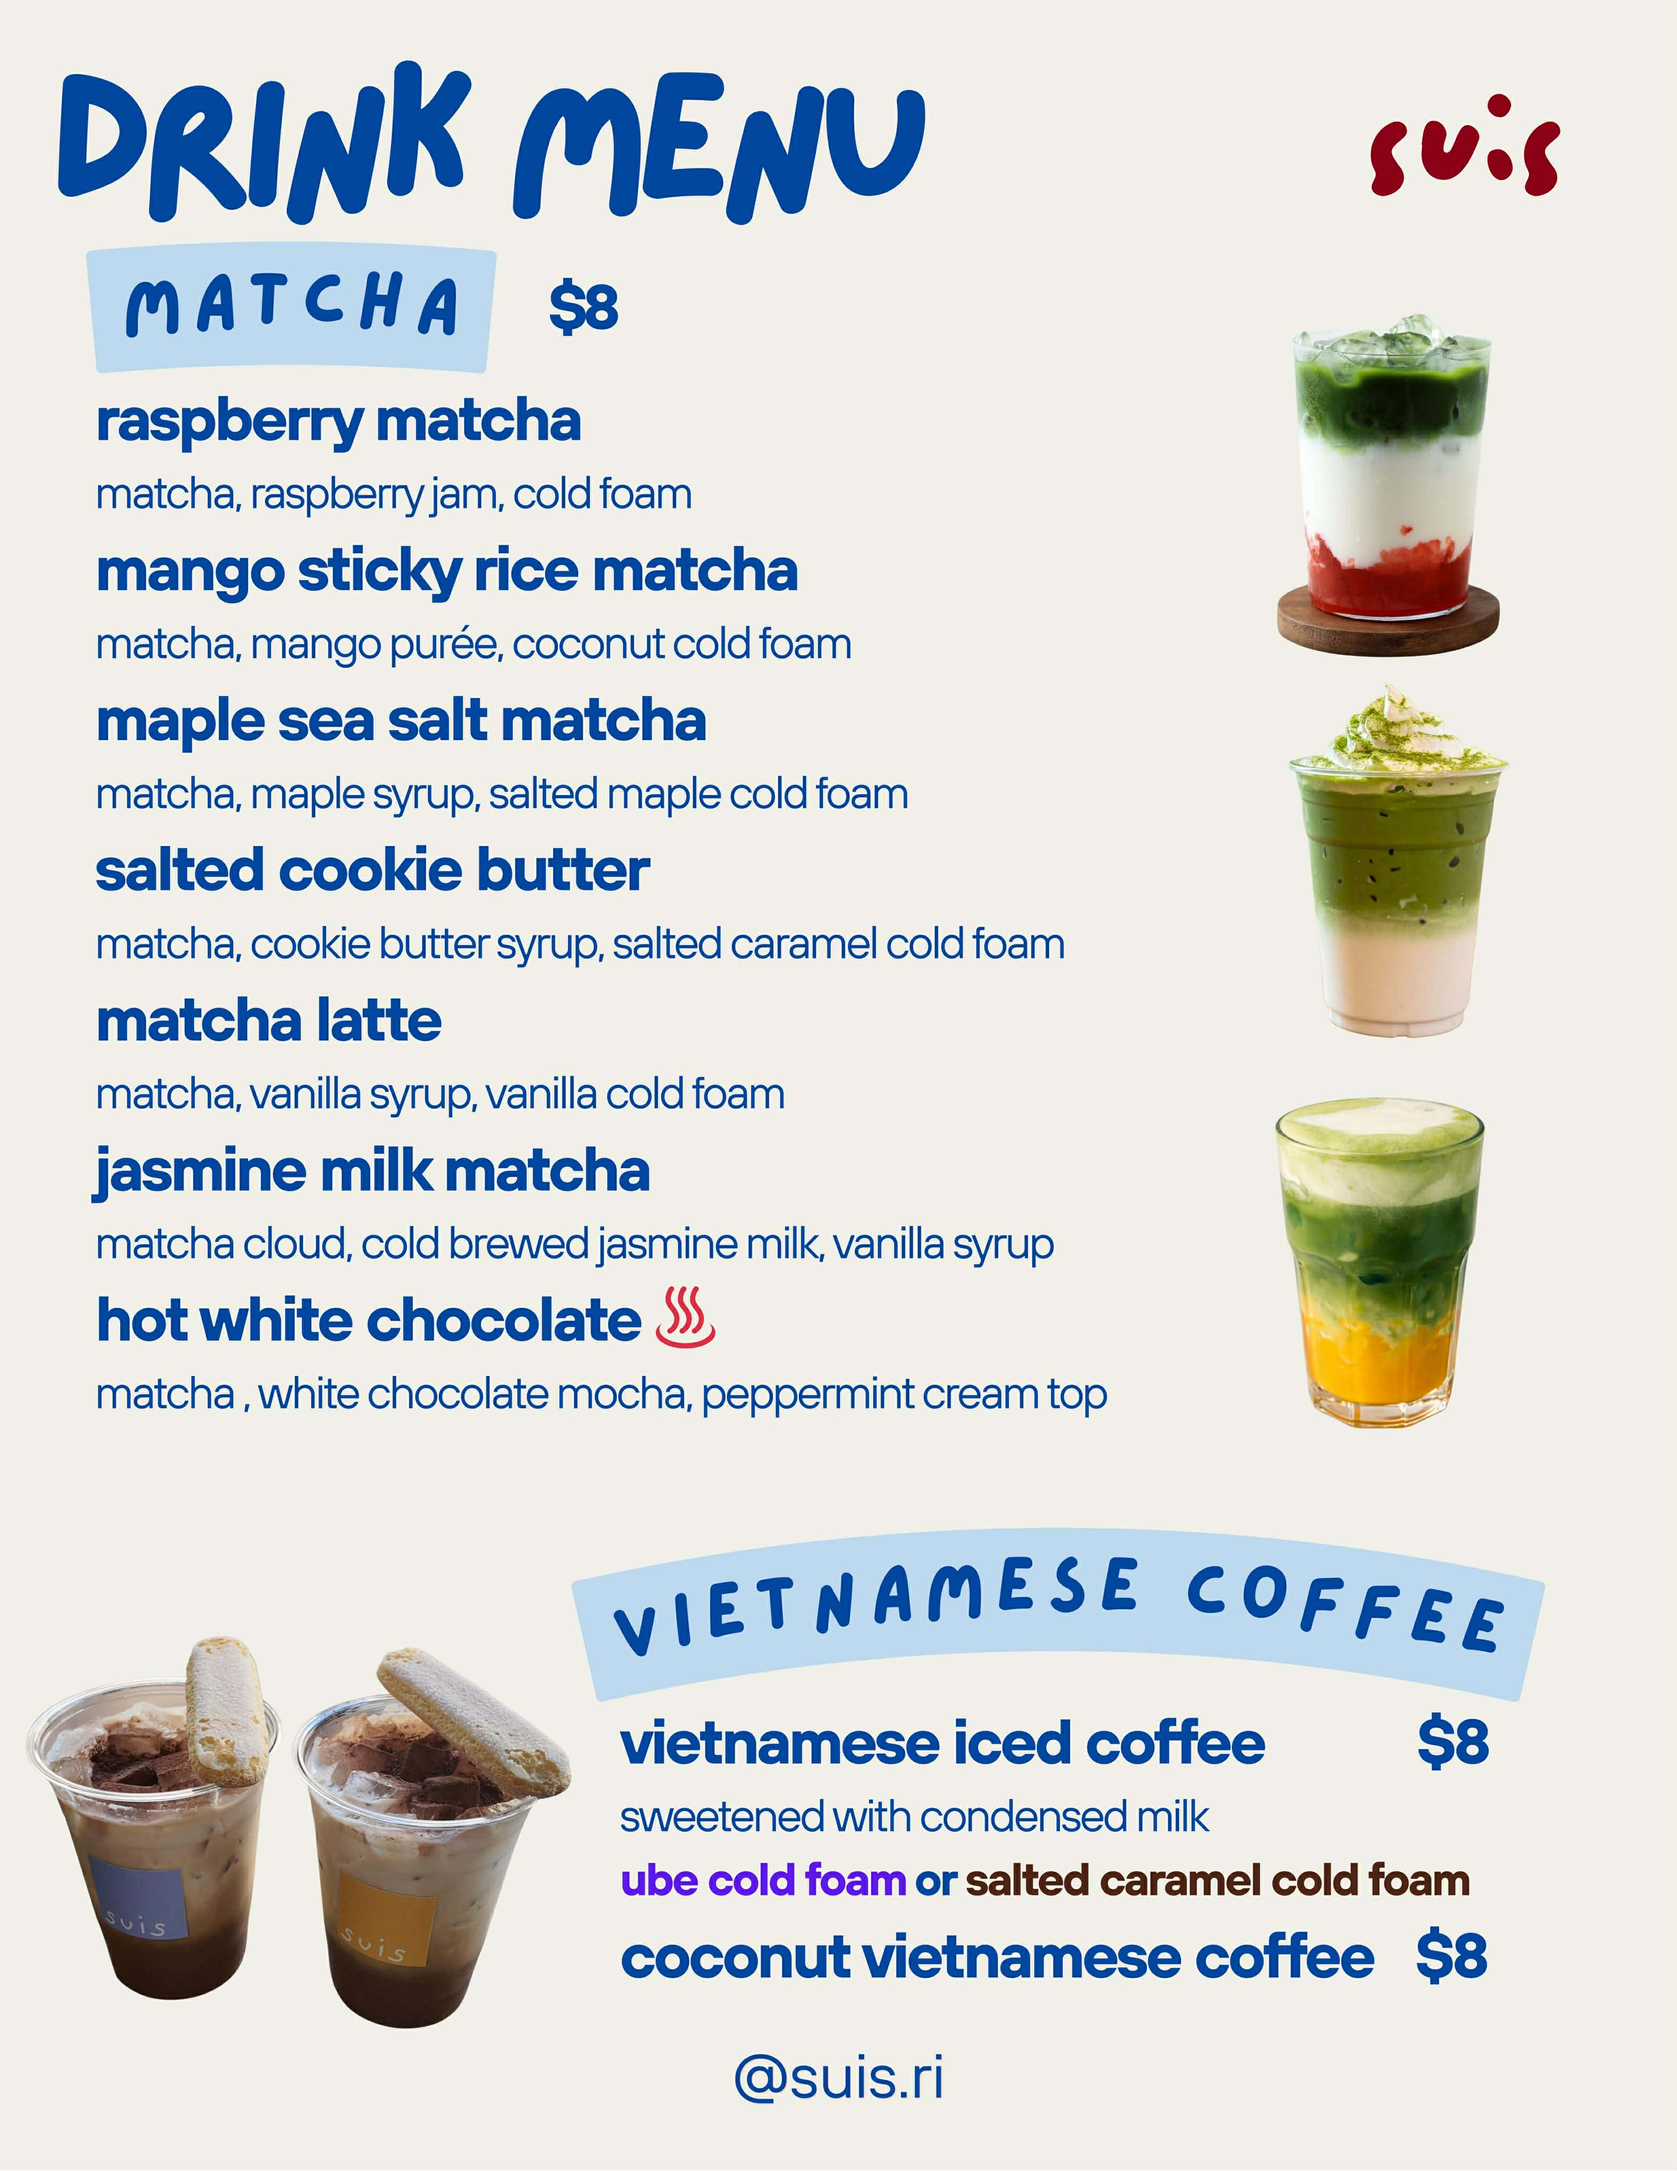
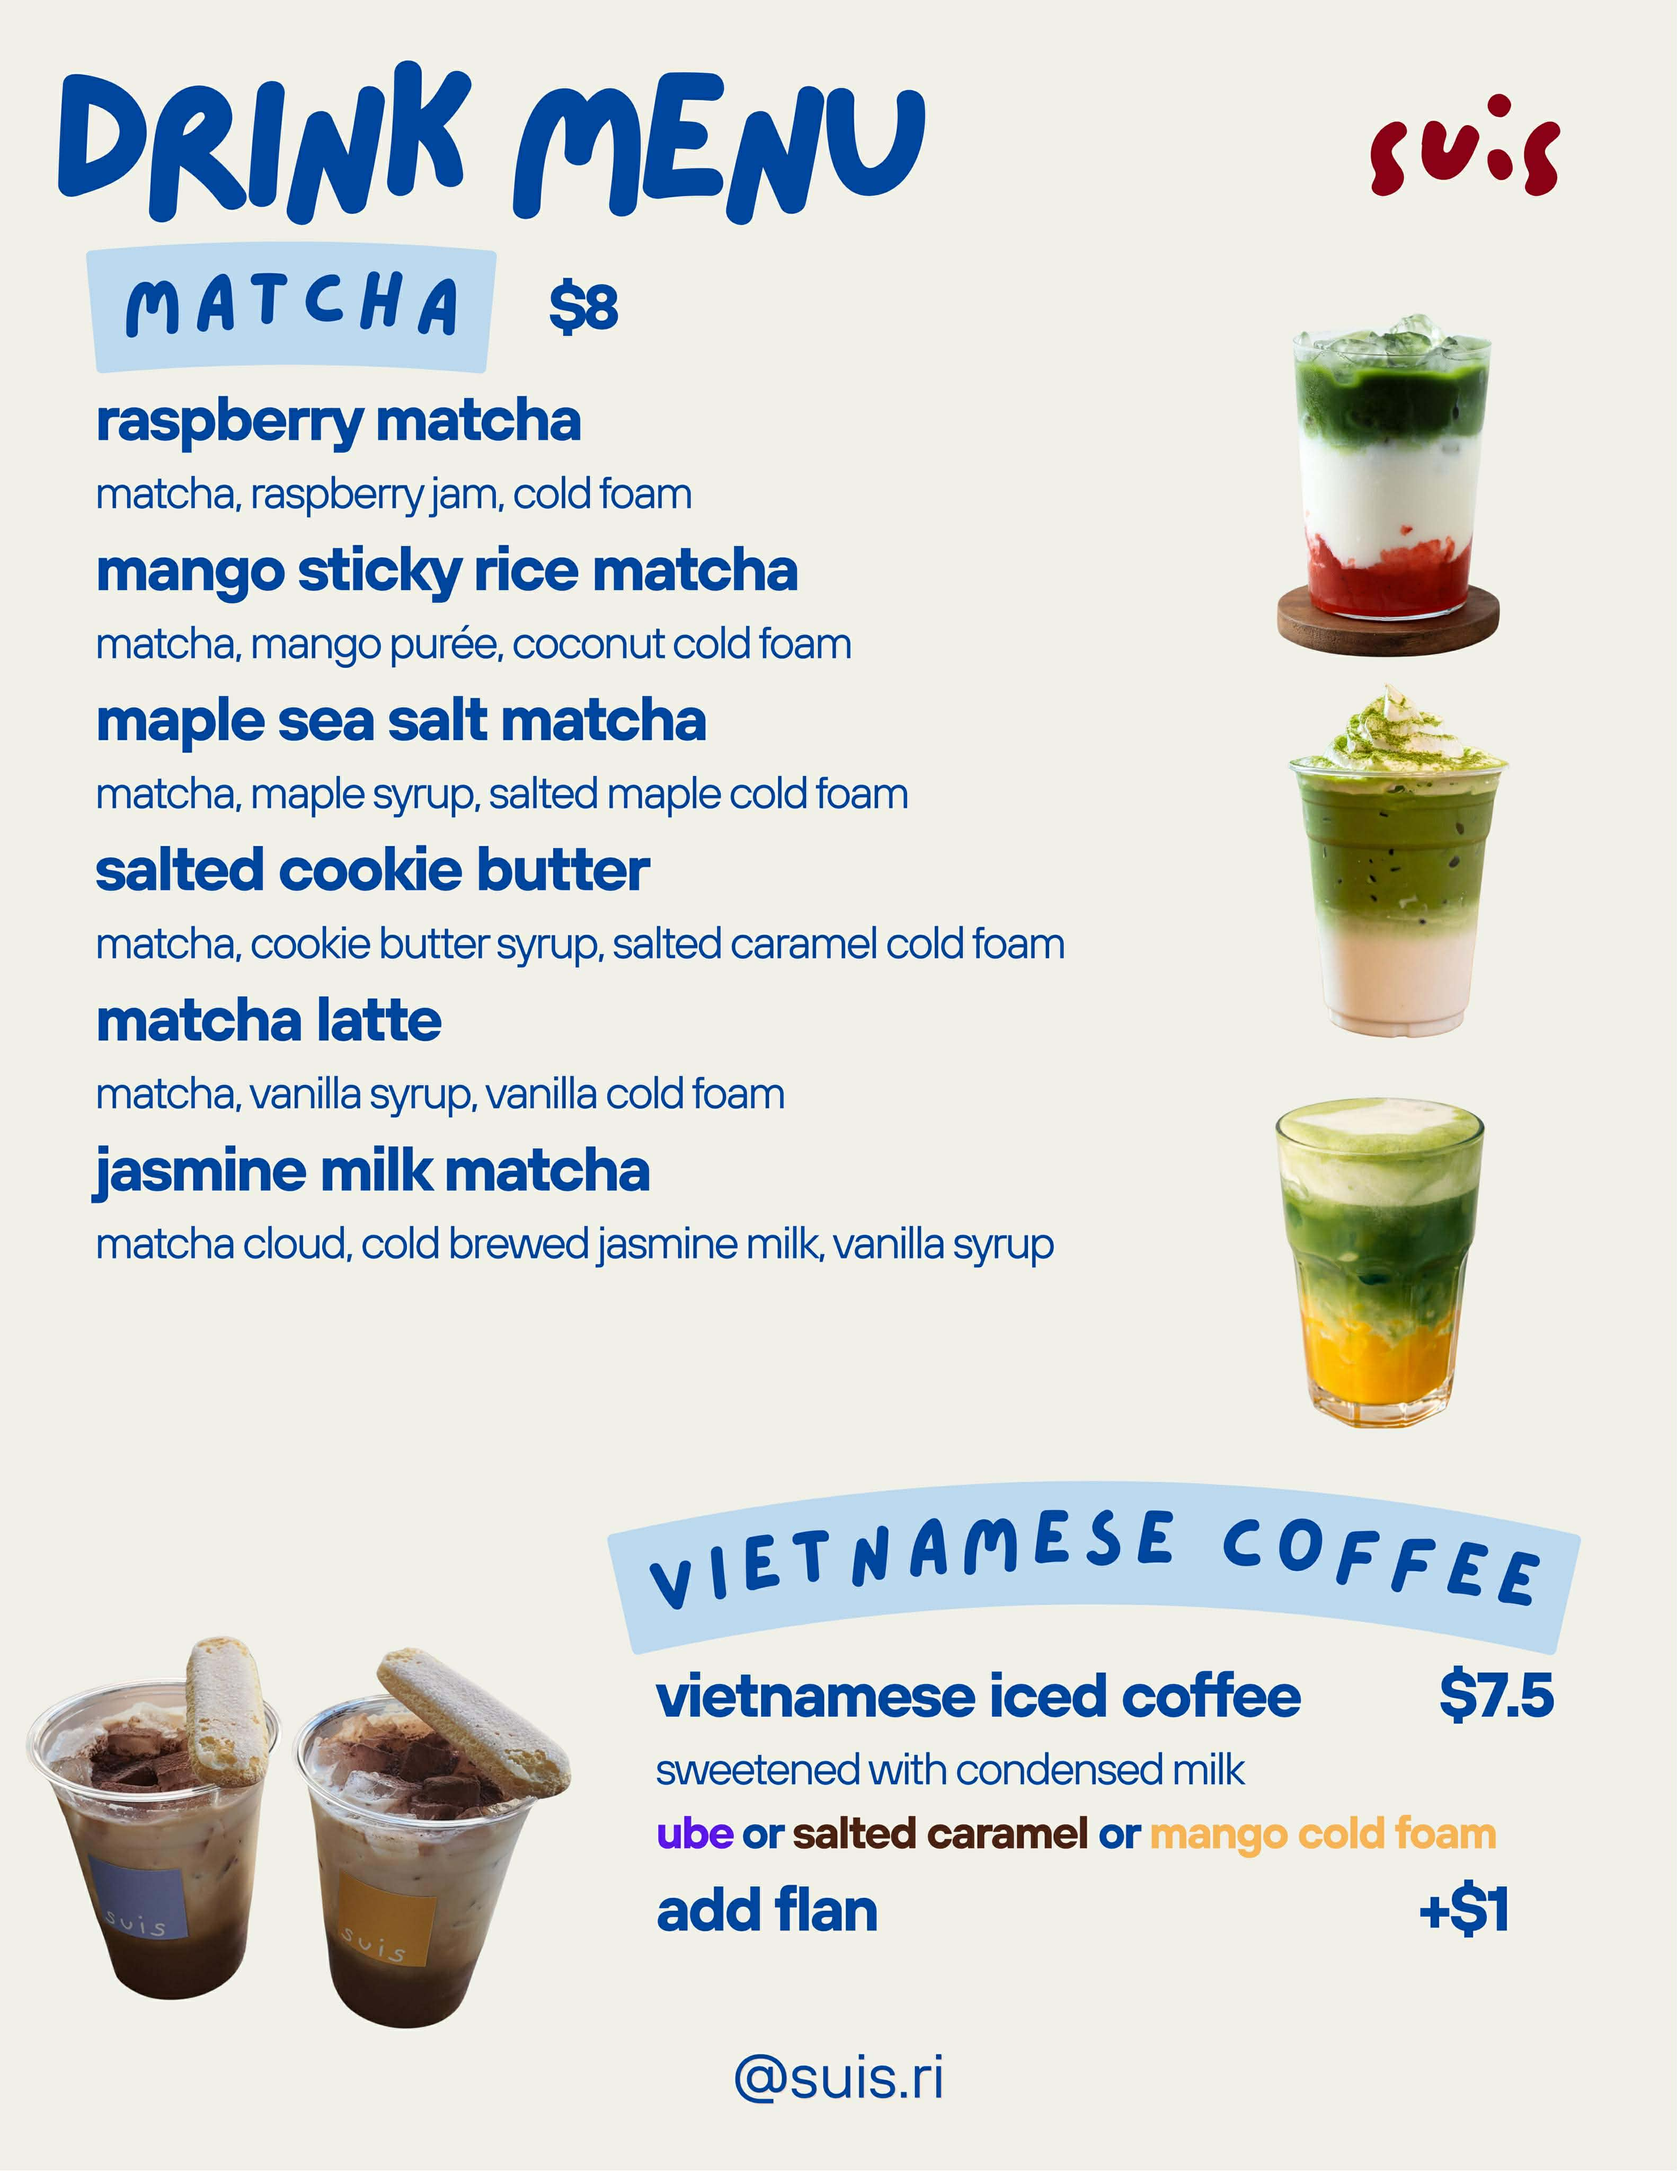
update for Feb pop-up

Changed region(s): [[0.0619, 0.5938, 0.9599, 0.9375]]

diff --git a/app/page.tsx b/app/page.tsx
@@ -56,7 +56,7 @@ export default function HomePage() {
           </Link>
 
           <a
-            href="https://forms.gle/aZRhh2vgveyvxNTMA"
+            href="https://forms.gle/SueMCejTzGFDgrPLA"
             target="_blank"
             rel="noopener noreferrer"
             className="w-full inline-block text-center py-3 px-6 bg-[#f5c84d] text-[#2f2f2f] font-semibold rounded-full shadow-md hover:opacity-90 transition-opacity duration-200"
